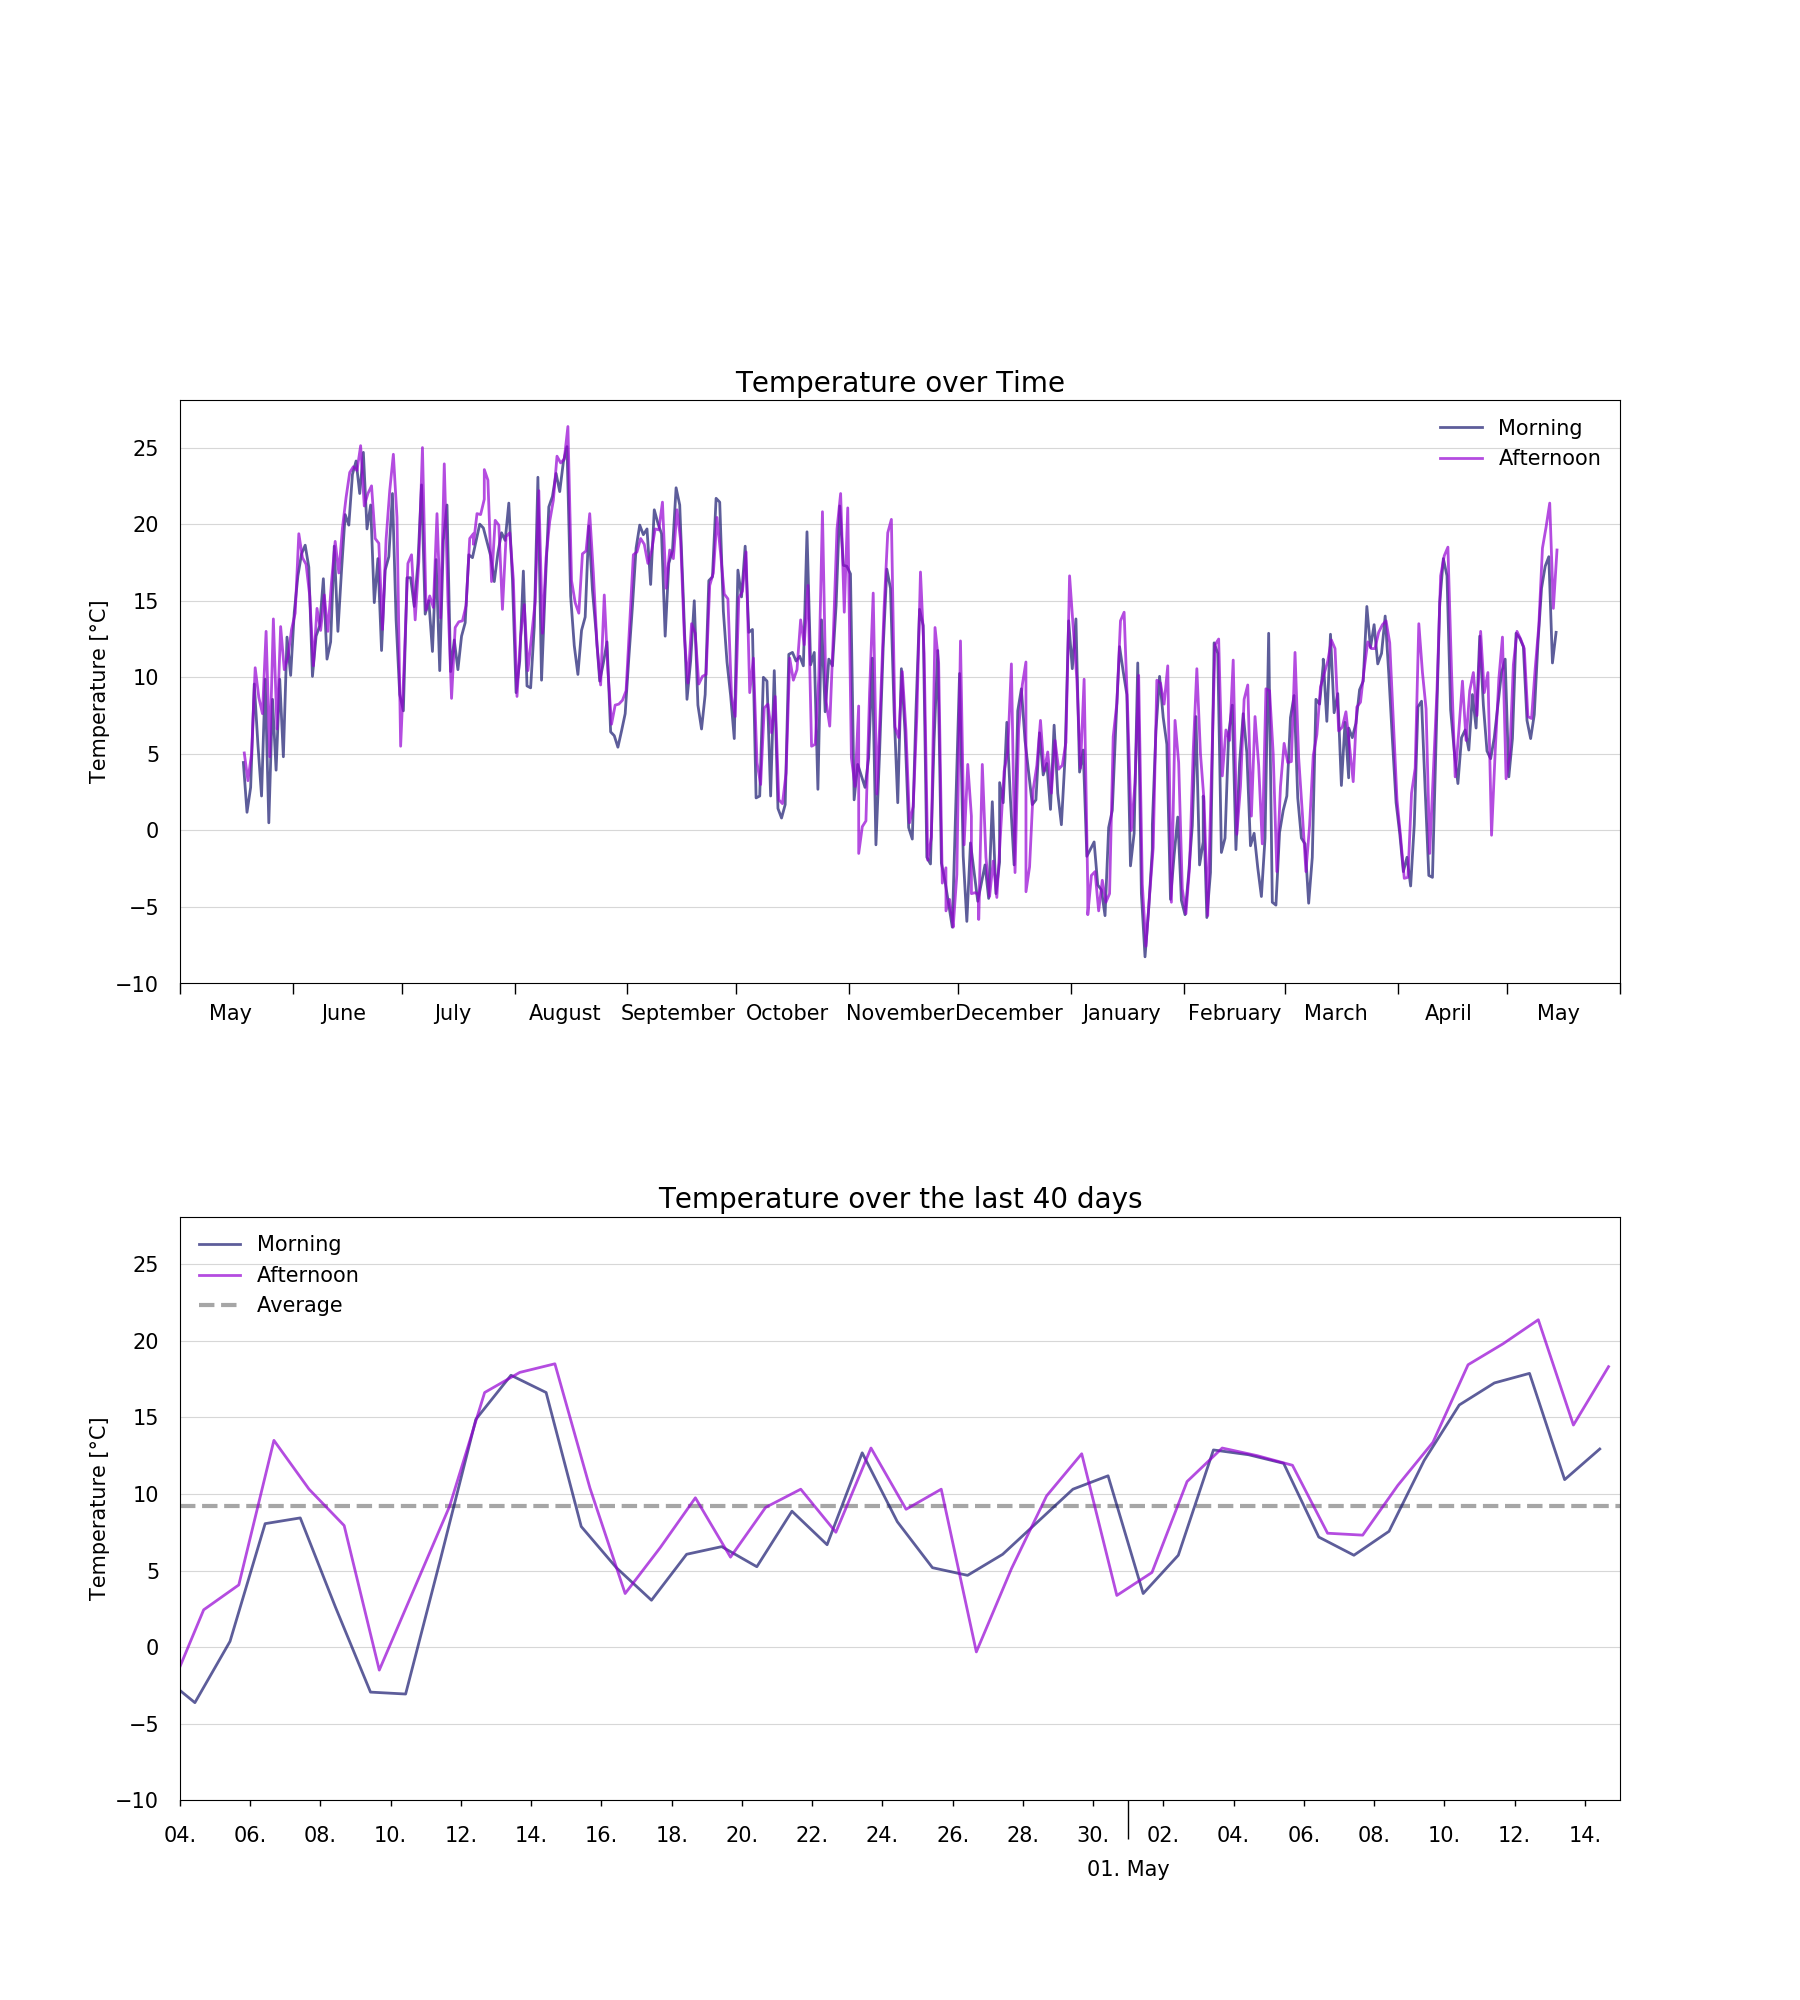
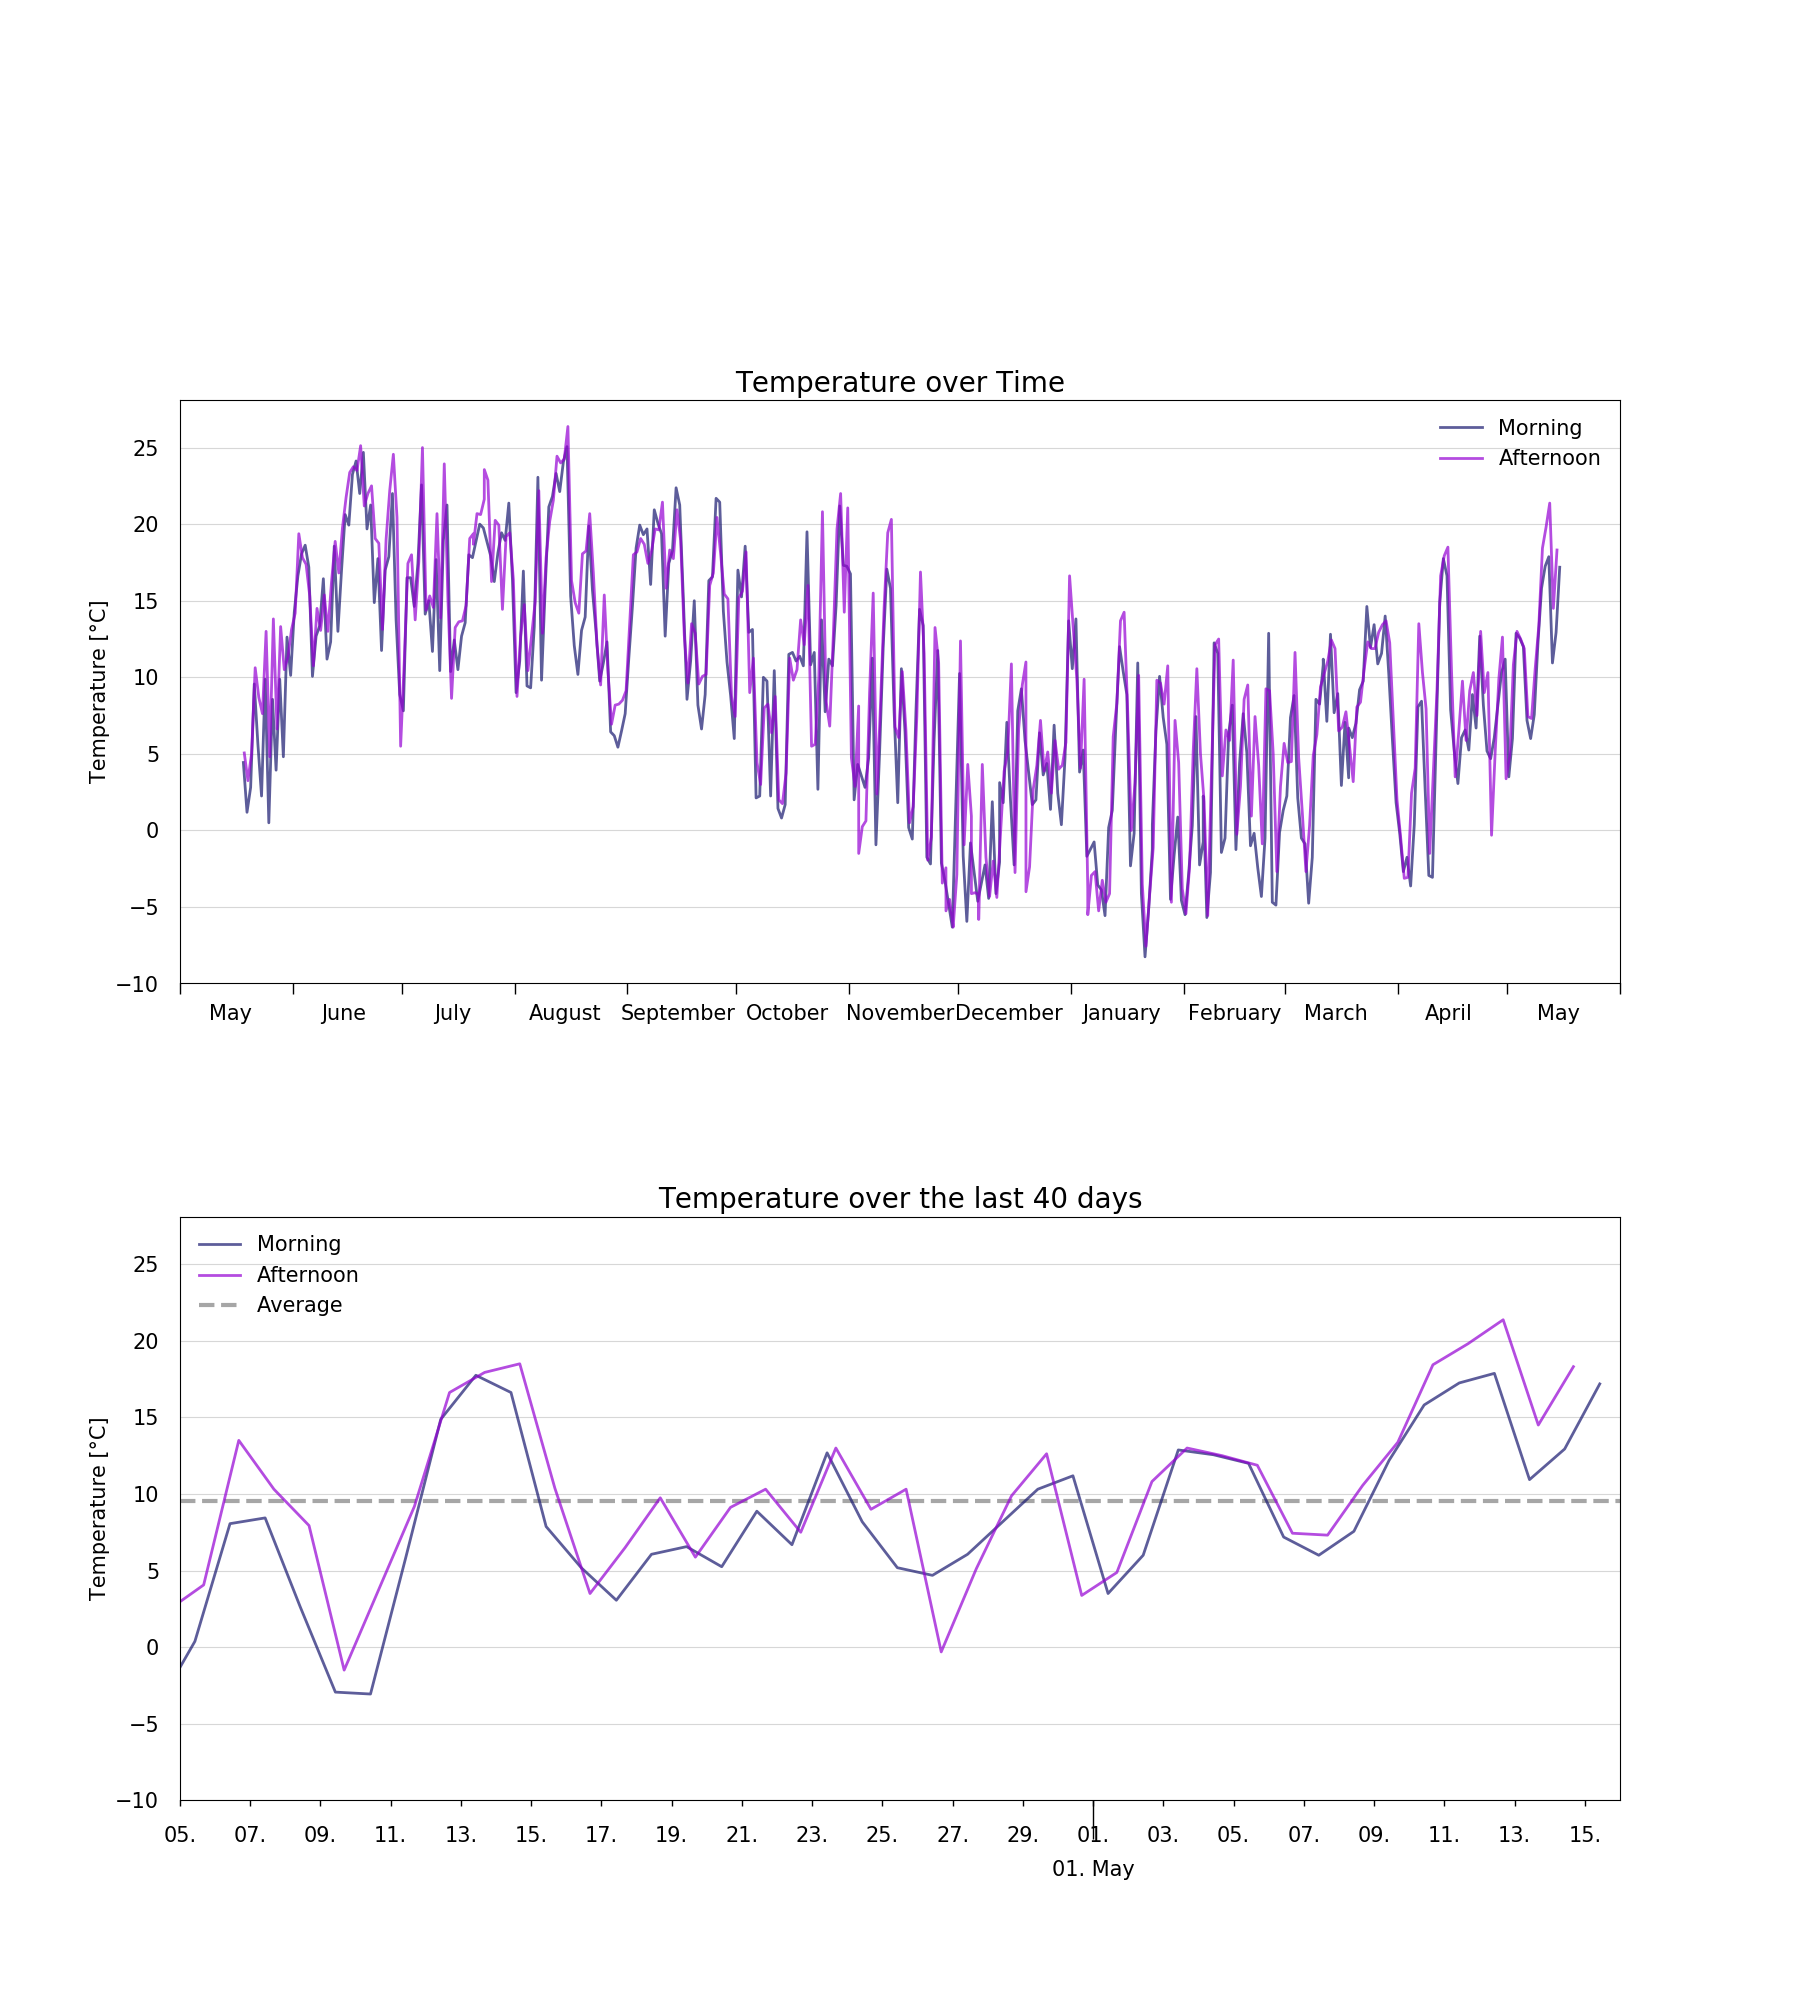
I'm a bot beep boop

Changed region(s): [[0.0933, 0.651, 0.9022, 0.837], [0.5911, 0.93, 0.6533, 0.961]]

diff --git a/resources/huette.md b/resources/huette.md
@@ -6,13 +6,13 @@ image: '/assets/img/'
 description: 'Live image from the Austrian alps'
 twitter_text: ' '
 ---
-## Latest image from 14 May 2022 at 16:10
+## Latest image from 15 May 2022 at 10:10
 <div class="huette">
   <div class="huette-image">
     <img src="{{ "/assets/img/huette.jpg" | prepend: site.baseurl }}">
   </div>
   <div class="huette-text">
-        <h2>Current Temperature: 18.312°C</h2>
+        <h2>Current Temperature: 17.187°C</h2>
         <p>A solar powered raspberry pi left alone in the wild is sending daily images and temperature data to this website. It should give you an impression about the current weather in the "Brixental".</p>
 
   </div>

diff --git a/rpi-script/huette.md b/rpi-script/huette.md
@@ -6,13 +6,13 @@ image: '/assets/img/'
 description: 'Live image from the Austrian alps'
 twitter_text: ' '
 ---
-## Latest image from 14 May 2022 at 16:10
+## Latest image from 15 May 2022 at 10:10
 <div class="huette">
   <div class="huette-image">
     <img src="{{ "/assets/img/huette.jpg" | prepend: site.baseurl }}">
   </div>
   <div class="huette-text">
-        <h2>Current Temperature: 18.312°C</h2>
+        <h2>Current Temperature: 17.187°C</h2>
         <p>A solar powered raspberry pi left alone in the wild is sending daily images and temperature data to this website. It should give you an impression about the current weather in the "Brixental".</p>
 
   </div>
